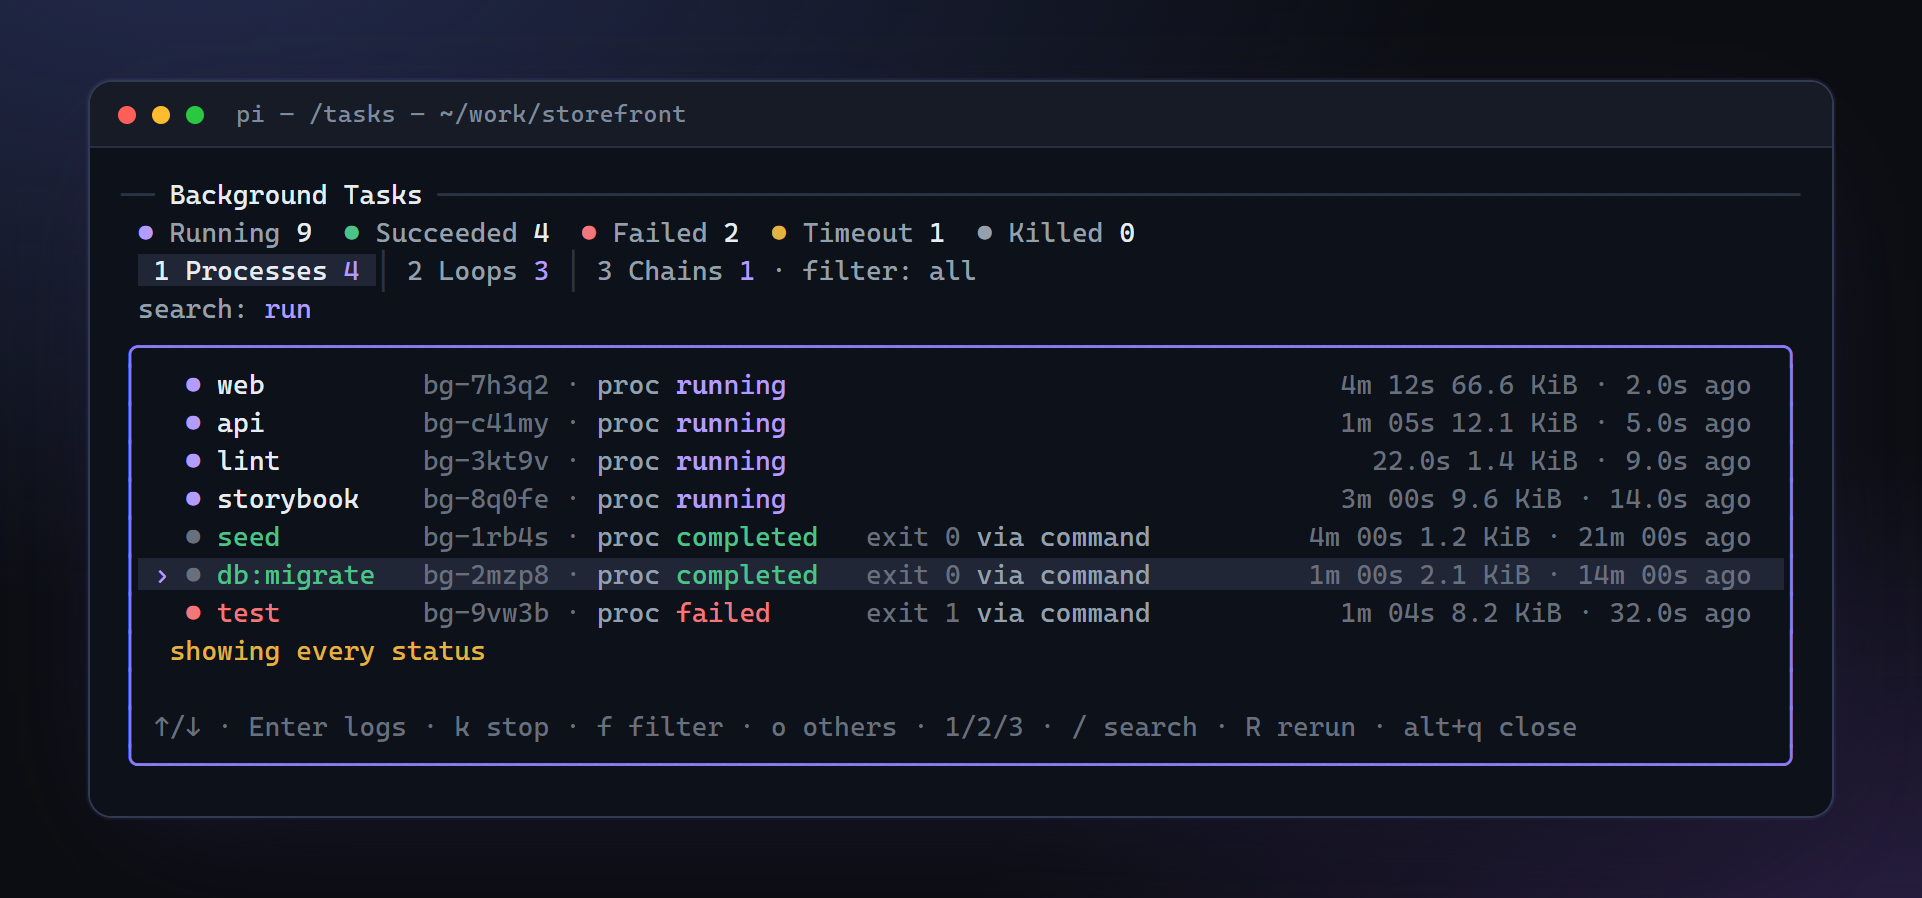
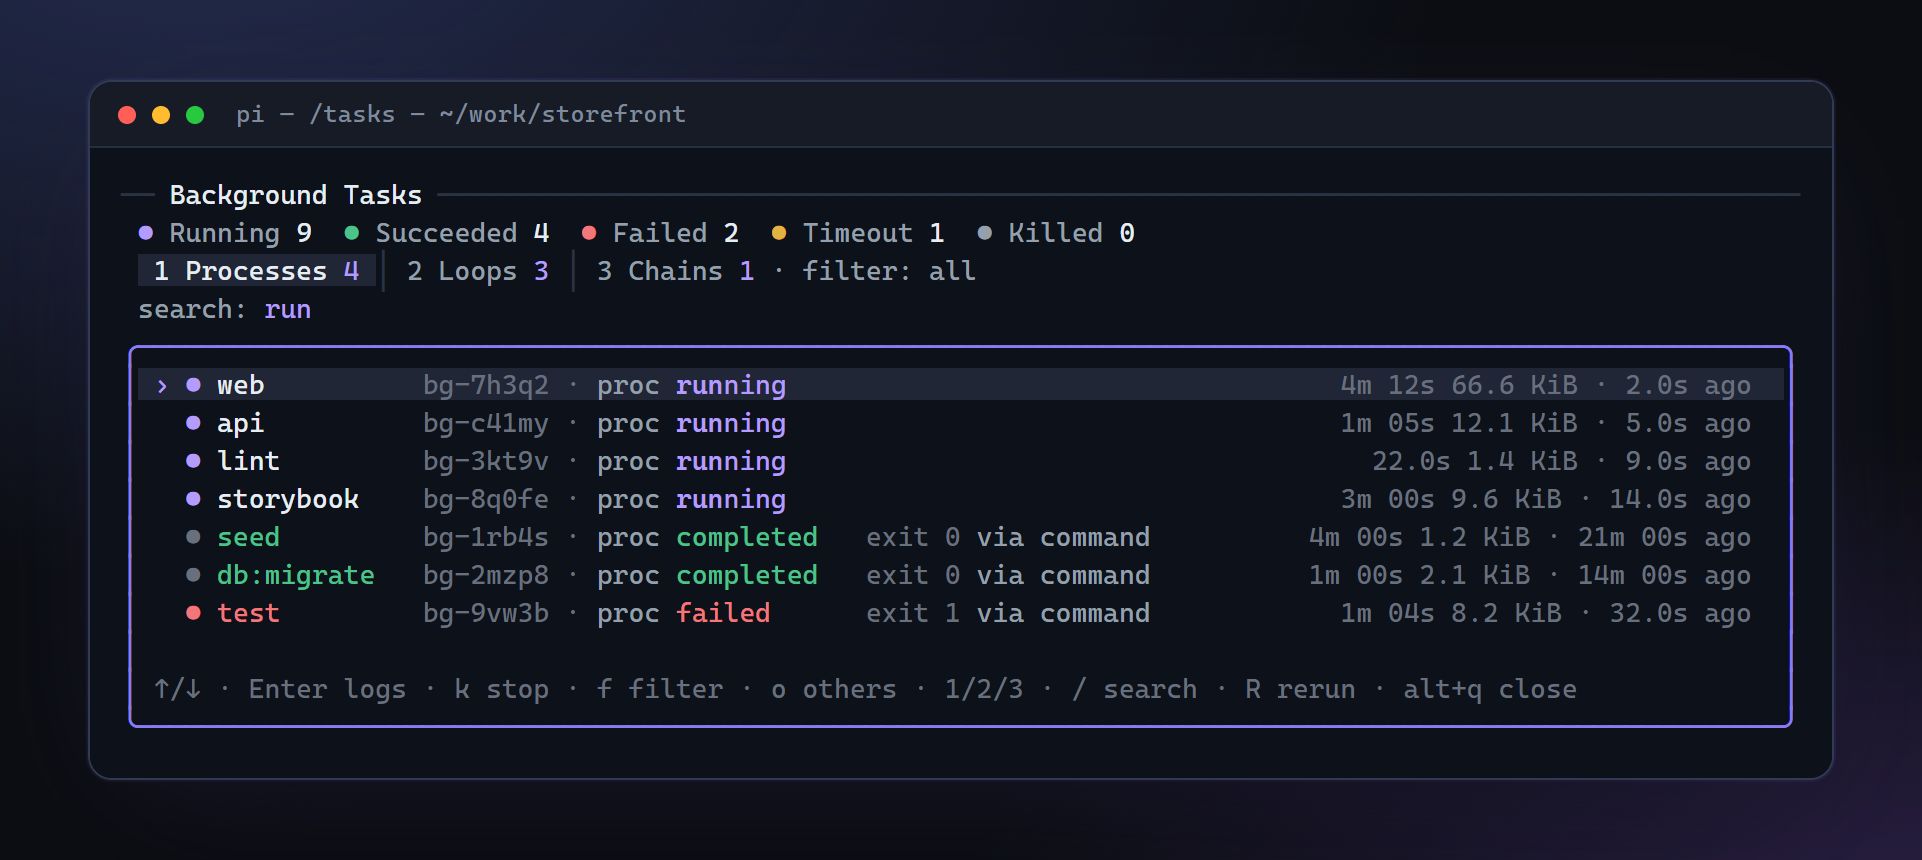
feat(panel): open on every status and keep the signal filter last
The filter walk started on running, which hid every finished row from a session whose work had all ended; it now starts on all and walks all -> running -> failed -> done -> signal, so a raised signal keeps a filter of its own (its rows are still running, so nothing else lists them as a group).

The image scripts derive their presses from the panel's own lists instead of a hardcoded count, and the three frames whose content the change moves are regenerated.

diff --git a/test/unit/tasks-panel.test.ts b/test/unit/tasks-panel.test.ts
@@ -323,7 +323,7 @@ function openPanel(
  * machinery is exercised rather than bypassed.
  */
 async function openOn(
-  tab: PanelTab | PanelFilter,
+  tab: PanelTab,
   source: FakeSource,
   now: () => number = () => 13_000,
   theme: Theme = plainTheme(),
@@ -334,34 +334,21 @@ async function openOn(
   return opened;
 }
 
+/** The number key that opens `tab` from wherever the panel stands. */
+function tabKey(tab: PanelTab): string {
+  return String(PANEL_TABS.indexOf(tab) + 1);
+}
+
 /**
- * The key that reaches a page or a filter from wherever the panel opens: `1`–`3`
- * for a page, `f` as many times as the filter is from the one the panel opens on.
+ * `f` walks `PANEL_FILTERS` in one direction and only one, so a filter is reached by
+ * pressing it that many times from where the panel actually stands — read off the
+ * panel, never assumed from the default.
  */
-function tabKey(choice: PanelTab | PanelFilter): string {
-  switch (choice) {
-    case "processes":
-    case "loops":
-    case "chains":
-      return String(PANEL_TABS.indexOf(choice) + 1);
-    default: {
-      // The panel opens on DEFAULT_PANEL_FILTER; `f` walks the list in one direction only.
-      const from = PANEL_FILTERS.indexOf(DEFAULT_PANEL_FILTER);
-      const to = PANEL_FILTERS.indexOf(choice);
-      return "f".repeat((to - from + PANEL_FILTERS.length) % PANEL_FILTERS.length);
-    }
-  }
-}
-
-// `handleInput` reads one key per call (`f` is matched exactly), so a test that
-// walks to a filter sends the presses one at a time.
 function pressFilter(panel: TasksPanel, choice: PanelFilter): void {
-  for (const key of tabKey(choice)) panel.handleInput(key);
-}
-
-/** `f` walks running → failed → done → all, so the archive is three presses away. */
-function showAll(panel: TasksPanel): void {
-  for (let press = 0; press < PANEL_FILTERS.length - 1; press += 1) panel.handleInput("f");
+  const from = PANEL_FILTERS.indexOf(panel.filter);
+  const count =
+    (PANEL_FILTERS.indexOf(choice) - from + PANEL_FILTERS.length) % PANEL_FILTERS.length;
+  for (let index = 0; index < count; index += 1) panel.handleInput("f");
 }
 
 // The remembered page outlives a panel, which is the point of it; each test still
@@ -534,8 +521,8 @@ describe("detail view", () => {
     const { panel, drawn } = openPanel(source);
     await panel.settle();
 
-    // A finished task is history, so it has to be asked for before Enter can open it.
-    showAll(panel);
+    // The panel opens on every status, so the finished build is already listed:
+    // Enter opens history without asking the filter first.
     await panel.settle();
     panel.handleInput(ENTER);
     await panel.settle();
@@ -1967,10 +1954,11 @@ describe("the status filter", () => {
     const { panel, drawn } = openPanel(byStatus());
     await panel.settle();
 
-    // `running` is where the panel opens: the past is a keypress group away.
+    // The panel opens on every status: a session whose work has all ended must
+    // not look empty, and `f` narrows to the living rows from here.
     expect(plain(drawn())).toContain(`filter: ${DEFAULT_PANEL_FILTER}`);
     expect(drawn()).toContain("server");
-    expect(drawn()).not.toContain("lint");
+    expect(drawn()).toContain("lint");
 
     // The walk and the rows it shows are read off the filter list, so a filter
     // added between two others moves this test with it instead of turning red.
@@ -1988,6 +1976,13 @@ describe("the status filter", () => {
       if (next === "failed") expect(drawn()).not.toContain("server");
     }
 
+    // One press from the opening filter narrows to live rows only, and the walk's
+    // last step brings every status back.
+    panel.handleInput("f");
+    expect(plain(drawn())).toContain("filter: running");
+    expect(drawn()).toContain("server");
+    expect(drawn()).not.toContain("lint");
+
     panel.dispose();
   });
 
@@ -2002,16 +1997,15 @@ describe("the status filter", () => {
 
     panel.handleInput("/");
     for (const character of "dpl") panel.handleInput(character);
-    // The panel opens on `running`, so the failed row is hidden until the filter
-    // asks for it; the query keeps narrowing whatever the filter lets through.
+    // The panel opens on every status, so both rows answer the query; `f` then
+    // decides which of them the list keeps.
     expect(plain(drawn())).toContain("deploy east");
-    expect(plain(drawn())).not.toContain("deploy west");
+    expect(plain(drawn())).toContain("deploy west");
 
-    // Leaving search keeps the query; `f` then walks the filter under it.
+    // Leaving search keeps the query; the filter narrows what it let through.
     panel.handleInput("\x1bq");
     expect(plain(drawn())).toContain("deploy east");
-    expect(plain(drawn())).not.toContain("deploy west");
-
+    expect(plain(drawn())).toContain("deploy west");
     pressFilter(panel, "failed");
     expect(plain(drawn())).toContain("deploy west");
     expect(plain(drawn())).not.toContain("deploy east");
@@ -2022,6 +2016,7 @@ describe("the status filter", () => {
   it("counts a paused schedule as running, since it is still owed a turn", async () => {
     const { panel, drawn } = await openOn("loops", byStatus());
 
+    pressFilter(panel, "running");
     expect(drawn()).toContain("review loop");
     expect(drawn()).toContain("filter: running");
     expect(drawn()).not.toContain("Nothing");
@@ -2053,7 +2048,7 @@ describe("the status filter", () => {
       chainView("ch-done1", { name: "old news", status: "completed" }),
     ];
     const { panel, drawn } = await openOn("chains", source);
-
+    pressFilter(panel, "running");
     expect(drawn()).toContain("ship it");
     expect(drawn()).not.toContain("old news");
 
@@ -2381,8 +2376,7 @@ describe("recency and search", () => {
     const source = searchFixture();
     const { panel, drawn } = openPanel(source);
     await panel.settle();
-    // The fixture keeps a failed row, which the opening `running` filter would hide.
-    showAll(panel);
+    // The panel opens on every status, so the fixture's failed row is already listed.
 
     panel.handleInput("/");
     for (const character of "a1b") panel.handleInput(character);
@@ -2505,8 +2499,7 @@ describe("recency and search", () => {
     const source = searchFixture();
     const { panel, drawn } = openPanel(source);
     await panel.settle();
-    // The fixture keeps a failed row, which the opening `running` filter would hide.
-    showAll(panel);
+    // The panel opens on every status, so the fixture's failed row is already listed.
     panel.handleInput("/");
     for (const character of "failed") panel.handleInput(character);
 

diff --git a/src/ui/panel/model.ts b/src/ui/panel/model.ts
@@ -254,11 +254,20 @@ export const TAB_KEY: ReadonlyMap<string, PanelTab> = new Map([
   ["3", "chains"],
 ]);
 
-/** The filters in the order `f` walks them, starting from the one the panel opens on. */
-export const PANEL_FILTERS: readonly PanelFilter[] = ["all", "running", "signal", "failed", "done"];
+/**
+ * The filters in the order `f` walks them, starting from the one the panel opens
+ * on. `signal` sits last because it is the narrowest reading of a live row: a
+ * command loop with its latch up is still `running` (ADR-0018), so the walk
+ * reaches it after the three ordinary endings instead of in the middle of them.
+ */
+export const PANEL_FILTERS: readonly PanelFilter[] = ["all", "running", "failed", "done", "signal"];
 
-/** The filter a freshly opened panel starts on: live work, not the archive. */
-export const DEFAULT_PANEL_FILTER: PanelFilter = "running";
+/**
+ * The filter a freshly opened panel starts on: every status. A session whose work
+ * has all ended must not open on an empty list — the archive is the session too —
+ * and `f` narrows to the living rows in one press.
+ */
+export const DEFAULT_PANEL_FILTER: PanelFilter = "all";
 
 /** The word each page is titled with; the glossary's own names (GLOSSARY.md). */
 export const TAB_TITLE = {

diff --git a/src/ui/panel/tasks-panel.ts b/src/ui/panel/tasks-panel.ts
@@ -564,7 +564,10 @@ export class TasksPanel implements Component, PanelView {
     this.paint();
   }
 
-  /** `f` walks all → running → failed → done inside the open page, and round again. */
+  /**
+   * `f` walks all → running → failed → done → signal inside the open page, and
+   * round again. The order lives in `PANEL_FILTERS`; this method reads it.
+   */
   cycleFilter(): void {
     const index = PANEL_FILTERS.indexOf(this.filter);
     this.filter = PANEL_FILTERS[(index + 1) % PANEL_FILTERS.length] ?? "all";

diff --git a/README.md b/README.md
@@ -63,9 +63,9 @@ Deliberately not here: subagent/delegate/fusion tools, monitors-with-shell, work
 
 ## The panel
 
-Opens with `/tasks` or `shift+down`, and has three tabs — processes, loops, chains — plus five filters (`all`, `running`, `signal`, `failed`, `done`). One summary line above the editor stays after it closes; the footer row is shared with every other extension, so the count lives where it can be read.
+Opens with `/tasks` or `shift+down`, and has three tabs — processes, loops, chains — plus five filters (`all`, `running`, `failed`, `done`, `signal`). It opens on `all`, so a session whose work has all ended still shows its rows; `f` narrows. One summary line above the editor stays after it closes; the footer row is shared with every other extension, so the count lives where it can be read.
 
-List keys: `↑/↓` select, `Enter` open, `←` back, `k` stop, `a` stop all, `f` cycle filter (`all`/`running`/`signal`/`failed`/`done`), `o` toggle other sessions' records, `R` rerun, `c` show the output path, `/` search, `x` close from the list, `alt+q` close from anywhere (the first press leaves search mode).
+List keys: `↑/↓` select, `Enter` open, `←` back, `k` stop, `a` stop all, `f` cycle filter (`all`/`running`/`failed`/`done`/`signal`), `o` toggle other sessions' records, `R` rerun, `c` show the output path, `/` search, `x` close from the list, `alt+q` close from anywhere (the first press leaves search mode).
 
 ```text
 ↑/↓ · Enter logs · k stop · f filter · o others · 1/2/3 tabs · / search · R rerun · a stop all · alt+q close

diff --git a/docs/previews.md b/docs/previews.md
@@ -56,5 +56,5 @@ README 引用的每一张都必须在上表里、也必须在磁盘上：`test/u
 - 面板会记住上次打开的 tab（`rememberedTab` 是模块级变量），所以每个渲染函数开头都调 `rememberPanelTab("processes")`，否则图片内容取决于上一次跑过谁。
 - 搜索状态下 `Enter` 不打开详情，`handleSearchInput` 只处理输入和退格；要先 `alt+q` 退出搜索（查询保留）。
 - 搜索会连 prompt 正文一起匹配，输入 `web` 会命中 `hourly-review` 的 prompt（"…review the commits… broken." 里的 w-e-b）。要点名某一行，用 `↓` 而不是搜索。
-- 按键序列依赖默认 filter：`DEFAULT_PANEL_FILTER` 是 `running`，要 `all` 得按四次 `f`，所以脚本里用 `FILTERS_TO_ALL` 算而不是写死数字。
+- 按键序列从面板自己的列表推：`render.mjs` 的 `filterSteps(choice)` 按 `PANEL_FILTERS` 与 `DEFAULT_PANEL_FILTER` 算要按几次 `f`，并让每帧以落到的 filter 命名（`--only failed` 就是靠这个前缀选帧）。默认改成 `all` 之后 `renderSearch()` 一次都不用按，`renderFailed()` 仍是两次（先 `running` 再 `failed`）——数字来自推导，不写死。
 - Windows 上 `docs/preview.gif` 被别的程序打开着（看图软件、浏览器标签）时写不进去，脚本会报 `EBUSY` 并把新图留在 `.tmp/preview/preview.gif`：关掉那个程序再跑一次。
